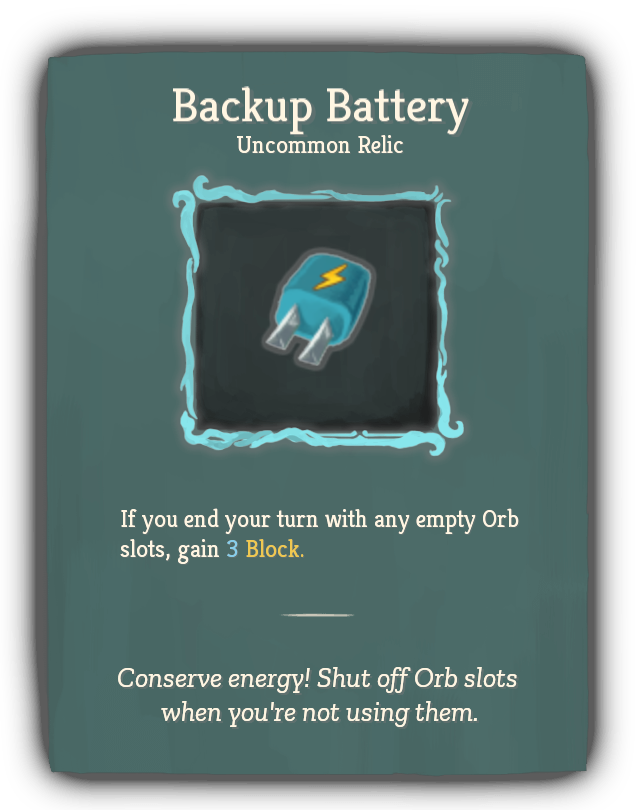
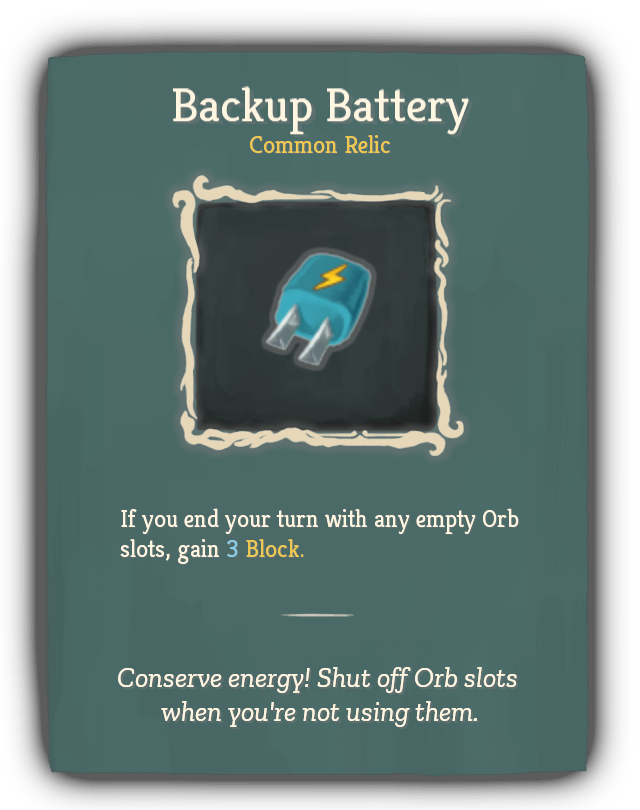
changes

Changed region(s): [[0.25, 0.1543, 0.7188, 0.5864]]

diff --git a/vexMod/index.html b/vexMod/index.html
@@ -959,6 +959,15 @@ Whenever you draw this card, reduce the damage of a random Attack in your hand b
   </tr>
   
   <tr>
+    <td><a href="relics/popup/PowerCharger.png">Backup Battery</a></td>
+    <td><img src="relics/PowerCharger.png" width="128" height="128"><a href="relics/popup/PowerCharger.png"><img src="relics/small-popup/PowerCharger.png" class="popup"></a></td>
+    <td>Common</td>
+    <td>Blue</td>
+    <td>If you end your turn with any empty Orb slots, gain <span class="color-b">3</span> <span class="color-y">Block.</span></td>
+    <td>Conserve energy! Shut off Orb slots when you're not using them.</td>
+  </tr>
+  
+  <tr>
     <td><a href="relics/popup/BarristanHead.png">Bandanna of Resilience</a></td>
     <td><img src="relics/BarristanHead.png" width="128" height="128"><a href="relics/popup/BarristanHead.png"><img src="relics/small-popup/BarristanHead.png" class="popup"></a></td>
     <td>Common</td>
@@ -1137,15 +1146,6 @@ When you die or win, @DBotling tweets about your run.</td>
     <td>Bard_color</td>
     <td>Every time you <span class="color-y">bard:Queue</span> <span class="color-b">3</span> of the same <span class="color-y">bard:Note</span> in a single turn, deal <span class="color-b">5</span> damage to ALL enemies.</td>
     <td>Plays frustrating music.</td>
-  </tr>
-  
-  <tr>
-    <td><a href="relics/popup/PowerCharger.png">Backup Battery</a></td>
-    <td><img src="relics/PowerCharger.png" width="128" height="128"><a href="relics/popup/PowerCharger.png"><img src="relics/small-popup/PowerCharger.png" class="popup"></a></td>
-    <td>Uncommon</td>
-    <td>Blue</td>
-    <td>If you end your turn with any empty Orb slots, gain <span class="color-b">3</span> <span class="color-y">Block.</span></td>
-    <td>Conserve energy! Shut off Orb slots when you're not using them.</td>
   </tr>
   
   <tr>
@@ -1374,15 +1374,6 @@ When you die or win, @DBotling tweets about your run.</td>
   </tr>
   
   <tr>
-    <td><a href="relics/popup/HeavenlyCard.png">Heavenly Card</a></td>
-    <td><img src="relics/HeavenlyCard.png" width="128" height="128"><a href="relics/popup/HeavenlyCard.png"><img src="relics/small-popup/HeavenlyCard.png" class="popup"></a></td>
-    <td>Rare</td>
-    <td>Astrologer</td>
-    <td>Every time you play <span class="color-b">4</span> <span class="color-y">Stars,</span> add a random <span class="color-y">Poker</span> card into your hand. It has <span class="color-y">Ethereal.</span></td>
-    <td>The star card of the show!</td>
-  </tr>
-  
-  <tr>
     <td><a href="relics/popup/ThoughtMold.png">Helpful Mold</a></td>
     <td><img src="relics/ThoughtMold.png" width="128" height="128"><a href="relics/popup/ThoughtMold.png"><img src="relics/small-popup/ThoughtMold.png" class="popup"></a></td>
     <td>Rare</td>
@@ -1398,15 +1389,6 @@ When you die or win, @DBotling tweets about your run.</td>
     <td>Astrologer</td>
     <td>Every time you play <span class="color-b">7</span> <span class="color-y">Stars,</span> perform a random <span class="color-y">bard:Melody.</span></td>
     <td>The song of the stars is yours to echo...</td>
-  </tr>
-  
-  <tr>
-    <td><a href="relics/popup/MusicalCard.png">Musical Card</a></td>
-    <td><img src="relics/MusicalCard.png" width="128" height="128"><a href="relics/popup/MusicalCard.png"><img src="relics/small-popup/MusicalCard.png" class="popup"></a></td>
-    <td>Rare</td>
-    <td>Bard_color</td>
-    <td>Whenever you perform a <span class="color-y">bard:Melody,</span> add a random <span class="color-y">Poker</span> card into your hand. It has <span class="color-y">Ethereal.</span></td>
-    <td>Whistles when thrown.</td>
   </tr>
   
   <tr>
@@ -1882,24 +1864,6 @@ High Score: 0</td>
     <td>Replaces <span style="color:#4169e1ff">Bag</span> <span style="color:#4169e1ff">Pipes</span><span style="color:#4169e1ff">.</span>
 Draw <span class="color-b">2</span> less cards each turn. Whenever you play a card, <span class="color-y">bard:Queue</span> a [WildNote] [REMOVE_SPACE].</td>
     <td>Crafted by an evil god, you shudder to play it.</td>
-  </tr>
-  
-  <tr>
-    <td><a href="relics/popup/MetalNotes.png">Robo-Notes</a></td>
-    <td><img src="relics/MetalNotes.png" width="128" height="128"><a href="relics/popup/MetalNotes.png"><img src="relics/small-popup/MetalNotes.png" class="popup"></a></td>
-    <td>Boss</td>
-    <td>Bard_color</td>
-    <td>Start each combat with <span class="color-b">3</span> Orb slots. Every <span class="color-b">5th</span> <span class="color-y">bard:Note</span> you <span class="color-y">bard:Queue</span> <span class="color-y">Channels</span> an Orb based on its type.</td>
-    <td>BEEEEP BOOOOOOP</td>
-  </tr>
-  
-  <tr>
-    <td><a href="relics/popup/RoboticCards.png">Robotic Cards</a></td>
-    <td><img src="relics/RoboticCards.png" width="128" height="128"><a href="relics/popup/RoboticCards.png"><img src="relics/small-popup/RoboticCards.png" class="popup"></a></td>
-    <td>Boss</td>
-    <td>Poker_player_gray</td>
-    <td>Start each combat with <span class="color-b">3</span> Orb slots. At the start of <span class="color-y">Showdown,</span> <span class="color-y">Channel</span> an Orb depending on the majority <span class="color-g">s</span> [REMOVE_SPACE]#bu [REMOVE_SPACE]#ri [REMOVE_SPACE]#pt in your hand.</td>
-    <td>BEEP BOOP. CALCULATING POKER SKILLS...</td>
   </tr>
   
   <tr>

diff --git a/vexMod/relics.html b/vexMod/relics.html
@@ -18,6 +18,15 @@
   </tr>
   
   <tr>
+    <td><a href="relics/popup/PowerCharger.png">Backup Battery</a></td>
+    <td><img src="relics/PowerCharger.png" width="128" height="128"><a href="relics/popup/PowerCharger.png"><img src="relics/small-popup/PowerCharger.png" class="popup"></a></td>
+    <td>Common</td>
+    <td>Blue</td>
+    <td>If you end your turn with any empty Orb slots, gain <span class="color-b">3</span> <span class="color-y">Block.</span></td>
+    <td>Conserve energy! Shut off Orb slots when you're not using them.</td>
+  </tr>
+  
+  <tr>
     <td><a href="relics/popup/BarristanHead.png">Bandanna of Resilience</a></td>
     <td><img src="relics/BarristanHead.png" width="128" height="128"><a href="relics/popup/BarristanHead.png"><img src="relics/small-popup/BarristanHead.png" class="popup"></a></td>
     <td>Common</td>
@@ -196,15 +205,6 @@ When you die or win, @DBotling tweets about your run.</td>
     <td>Bard_color</td>
     <td>Every time you <span class="color-y">bard:Queue</span> <span class="color-b">3</span> of the same <span class="color-y">bard:Note</span> in a single turn, deal <span class="color-b">5</span> damage to ALL enemies.</td>
     <td>Plays frustrating music.</td>
-  </tr>
-  
-  <tr>
-    <td><a href="relics/popup/PowerCharger.png">Backup Battery</a></td>
-    <td><img src="relics/PowerCharger.png" width="128" height="128"><a href="relics/popup/PowerCharger.png"><img src="relics/small-popup/PowerCharger.png" class="popup"></a></td>
-    <td>Uncommon</td>
-    <td>Blue</td>
-    <td>If you end your turn with any empty Orb slots, gain <span class="color-b">3</span> <span class="color-y">Block.</span></td>
-    <td>Conserve energy! Shut off Orb slots when you're not using them.</td>
   </tr>
   
   <tr>
@@ -433,15 +433,6 @@ When you die or win, @DBotling tweets about your run.</td>
   </tr>
   
   <tr>
-    <td><a href="relics/popup/HeavenlyCard.png">Heavenly Card</a></td>
-    <td><img src="relics/HeavenlyCard.png" width="128" height="128"><a href="relics/popup/HeavenlyCard.png"><img src="relics/small-popup/HeavenlyCard.png" class="popup"></a></td>
-    <td>Rare</td>
-    <td>Astrologer</td>
-    <td>Every time you play <span class="color-b">4</span> <span class="color-y">Stars,</span> add a random <span class="color-y">Poker</span> card into your hand. It has <span class="color-y">Ethereal.</span></td>
-    <td>The star card of the show!</td>
-  </tr>
-  
-  <tr>
     <td><a href="relics/popup/ThoughtMold.png">Helpful Mold</a></td>
     <td><img src="relics/ThoughtMold.png" width="128" height="128"><a href="relics/popup/ThoughtMold.png"><img src="relics/small-popup/ThoughtMold.png" class="popup"></a></td>
     <td>Rare</td>
@@ -457,15 +448,6 @@ When you die or win, @DBotling tweets about your run.</td>
     <td>Astrologer</td>
     <td>Every time you play <span class="color-b">7</span> <span class="color-y">Stars,</span> perform a random <span class="color-y">bard:Melody.</span></td>
     <td>The song of the stars is yours to echo...</td>
-  </tr>
-  
-  <tr>
-    <td><a href="relics/popup/MusicalCard.png">Musical Card</a></td>
-    <td><img src="relics/MusicalCard.png" width="128" height="128"><a href="relics/popup/MusicalCard.png"><img src="relics/small-popup/MusicalCard.png" class="popup"></a></td>
-    <td>Rare</td>
-    <td>Bard_color</td>
-    <td>Whenever you perform a <span class="color-y">bard:Melody,</span> add a random <span class="color-y">Poker</span> card into your hand. It has <span class="color-y">Ethereal.</span></td>
-    <td>Whistles when thrown.</td>
   </tr>
   
   <tr>
@@ -941,24 +923,6 @@ High Score: 0</td>
     <td>Replaces <span style="color:#4169e1ff">Bag</span> <span style="color:#4169e1ff">Pipes</span><span style="color:#4169e1ff">.</span>
 Draw <span class="color-b">2</span> less cards each turn. Whenever you play a card, <span class="color-y">bard:Queue</span> a [WildNote] [REMOVE_SPACE].</td>
     <td>Crafted by an evil god, you shudder to play it.</td>
-  </tr>
-  
-  <tr>
-    <td><a href="relics/popup/MetalNotes.png">Robo-Notes</a></td>
-    <td><img src="relics/MetalNotes.png" width="128" height="128"><a href="relics/popup/MetalNotes.png"><img src="relics/small-popup/MetalNotes.png" class="popup"></a></td>
-    <td>Boss</td>
-    <td>Bard_color</td>
-    <td>Start each combat with <span class="color-b">3</span> Orb slots. Every <span class="color-b">5th</span> <span class="color-y">bard:Note</span> you <span class="color-y">bard:Queue</span> <span class="color-y">Channels</span> an Orb based on its type.</td>
-    <td>BEEEEP BOOOOOOP</td>
-  </tr>
-  
-  <tr>
-    <td><a href="relics/popup/RoboticCards.png">Robotic Cards</a></td>
-    <td><img src="relics/RoboticCards.png" width="128" height="128"><a href="relics/popup/RoboticCards.png"><img src="relics/small-popup/RoboticCards.png" class="popup"></a></td>
-    <td>Boss</td>
-    <td>Poker_player_gray</td>
-    <td>Start each combat with <span class="color-b">3</span> Orb slots. At the start of <span class="color-y">Showdown,</span> <span class="color-y">Channel</span> an Orb depending on the majority <span class="color-g">s</span> [REMOVE_SPACE]#bu [REMOVE_SPACE]#ri [REMOVE_SPACE]#pt in your hand.</td>
-    <td>BEEP BOOP. CALCULATING POKER SKILLS...</td>
   </tr>
   
   <tr>

diff --git a/vexMod/index.md b/vexMod/index.md
@@ -107,6 +107,7 @@
 
 | Image | Name | Rarity | Color | Description | Flavor |
 | ----- | ---- | ------ | ----- | ----------- | ------ |
+| ![](relics/PowerCharger.png) | Backup Battery | Common | Blue | If you end your turn with any empty Orb slots, gain #b3 #yBlock. | Conserve energy! Shut off Orb slots when you're not using them. |
 | ![](relics/BarristanHead.png) | Bandanna of Resilience | Common |  | If you have #b30 or less HP at the start of your turn, gain #b5 #yBlock. | In your strangest dreams, it appears and yells orders at you. |
 | ![](relics/ChargeUpper.png) | Charge Upper | Common | Red | Every time you gain #b30 #yBlock, gain #b1 #yStrength. | "Oops, I fell asleep without plugging it in..." |
 | ![](relics/ColdYogurt.png) | Cold Yogurt | Common | Blue | At the start of each combat, #yChannel #b1 #yFrost. | You wonder if your enemies are lactose-intolerant. |
@@ -127,7 +128,6 @@
 | ![](relics/Spotlight.png) | Spotlight | Common | Astrologer | At the start of each combat, apply #b3 #yStarlit to ALL enemies. | Light 'em up! |
 | ![](relics/StrikeShooter.png) | Strike Shooter | Common | Red | At the start of every third turn, play a πStrike at a random target. | All your sword-firing needs in one medium package! |
 | ![](relics/CleansingRadio.png) | Anger Radio | Uncommon | Bard_color | Every time you #ybard:Queue #b3 of the same #ybard:Note in a single turn, deal #b5 damage to ALL enemies. | Plays frustrating music. |
-| ![](relics/PowerCharger.png) | Backup Battery | Uncommon | Blue | If you end your turn with any empty Orb slots, gain #b3 #yBlock. | Conserve energy! Shut off Orb slots when you're not using them. |
 | ![](relics/BerryBomb.png) | Berry Bomb | Uncommon |  | Upon pickup, raise your Max HP by #b6. In #b8 combats, explodes and deals #b100 damage to ALL enemies. | Tastes explosive! |
 | ![](relics/BetterTron.png) | Better-O-Tron | Uncommon |  | The next #b3 unupgraded cards you add into your deck are #yupgraded. | Mechanical device certain to improve your life somehow! |
 | ![](relics/BottledTune.png) | Bottled Tune | Uncommon | Bard_color | Upon pickup, choose a #ybard:Note. At the start of each combat, #ybard:Queue that #ybard:Note. | You crack the lid and hear a faint sound. |
@@ -153,10 +153,8 @@
 | ![](relics/CoolingFan.png) | Cooling Fan | Rare | Blue | Whenever you #yChannel an Orb, gain #b2 #yBlock. | This fan helps you save cycles when performing monster solution options. |
 | ![](relics/FakeStar.png) | Fake Star | Rare | Astrologer | The first #yStellar card you play each combat will be active. | But if you squint it looks pretty real! |
 | ![](relics/GravityRainbow.png) | Gravitational Rainbow | Rare | Astrologer | At the start of every odd-numbered turn, put the bottom card of your draw pile into your hand. | "But rainbows aren't affected by gravity!" you say. Well, pah! |
-| ![](relics/HeavenlyCard.png) | Heavenly Card | Rare | Astrologer | Every time you play #b4 #yStars, add a random #yPoker card into your hand. It has #yEthereal. | The star card of the show! |
 | ![](relics/ThoughtMold.png) | Helpful Mold | Rare | Red | Whenever you gain #yBlock, gain #b1 #yStrength this turn. | This mold siphons off bits of your shield to feed itself. |
 | ![](relics/MidnightOcarina.png) | Midnight Ocarina | Rare | Astrologer | Every time you play #b7 #yStars, perform a random #ybard:Melody. | The song of the stars is yours to echo... |
-| ![](relics/MusicalCard.png) | Musical Card | Rare | Bard_color | Whenever you perform a #ybard:Melody, add a random #yPoker card into your hand. It has #yEthereal. | Whistles when thrown. |
 | ![](relics/OrbOfGreed.png) | Orb of Greed | Rare | Blue | At the start of each combat, #yChannel #b1 #yGolden #yπLightning. | Mmm, money! |
 | ![](relics/PlasmaPancake.png) | Plasma Pancake | Rare |  | Upon pickup, raise your Max HP by #b6. NL At the start of each combat, deal #b11 damage to ALL enemies. | It's literally on fire. |
 | ![](relics/RedPlottingStone.png) | Red Plotting Stone | Rare |  | #pGlows #psometime. NL #pRight #pclick while glowing for a #gmassive #greward. NL #pRight #pclick while not glowing to #rlose. | Great for nefarious plans - as opposed to the Green Plotting Stone. |
@@ -209,8 +207,6 @@
 | ![](relics/MindDevourer.png) | Mind Devourer | Boss |  | Gain [E] at the start of your turn. At the end of combat, remove a random card from your deck. | Mm, shiny! Wait, what was your name again? |
 | ![](relics/NewClearReactor.png) | New, Clear Reactor | Boss |  | Energy is conserved between turns and combats. You no longer gain Energy each turn. Set your energy to #b100 upon pickup and at the start of each Act. | Totally safe! Good for the environment! Fosters mutations! |
 | ![](relics/MusicMaker.png) | Pipes of Chaos | Boss | Bard_color | Replaces [#4169e1ff]Bag[] [#4169e1ff]Pipes[][#4169e1ff].[] NL Draw #b2 less cards each turn. Whenever you play a card, #ybard:Queue a [WildNote] [REMOVE_SPACE]. | Crafted by an evil god, you shudder to play it. |
-| ![](relics/MetalNotes.png) | Robo-Notes | Boss | Bard_color | Start each combat with #b3 Orb slots. Every #b5th #ybard:Note you #ybard:Queue #yChannels an Orb based on its type. | BEEEEP BOOOOOOP |
-| ![](relics/RoboticCards.png) | Robotic Cards | Boss | Poker_player_gray | Start each combat with #b3 Orb slots. At the start of #yShowdown, #yChannel an Orb depending on the majority #gs [REMOVE_SPACE]#bu [REMOVE_SPACE]#ri [REMOVE_SPACE]#pt in your hand. | BEEP BOOP. CALCULATING POKER SKILLS... |
 | ![](relics/FutureSight.png) | Sight of Future Skies | Boss | Astrologer | Replaces [#c8c8dcff]Sky's[] [#c8c8dcff]Mirror[][#c8c8dcff].[] NL Whenever you play a card, put it on the bottom of your draw pile. | You see it all laid out. One day the sky shall burn away. |
 | ![](relics/StarEater.png) | Star Eater | Boss | Astrologer | Gain [E] at the start of your turn. At the end of your turn, decrease the #yStellar #yPhase by #b2. | One by one, the stars in the sky wink out. |
 | ![](relics/StarPokerPlayer.png) | Star Player Flyer | Boss | Poker_player_gray | Your #gDiamonds increment the #yStellar #yPhase as an additional #yShowdown effect. Your #bSpades apply #b1 #yStarlit to a random enemy as an additional #yShowdown effect. Your #pClubs do both. | A grim memory of your past in the tournaments. |

diff --git a/vexMod/relics.md b/vexMod/relics.md
@@ -1,5 +1,6 @@
 | Image | Name | Rarity | Color | Description | Flavor |
 | ----- | ---- | ------ | ----- | ----------- | ------ |
+| ![](relics/PowerCharger.png) | Backup Battery | Common | Blue | If you end your turn with any empty Orb slots, gain #b3 #yBlock. | Conserve energy! Shut off Orb slots when you're not using them. |
 | ![](relics/BarristanHead.png) | Bandanna of Resilience | Common |  | If you have #b30 or less HP at the start of your turn, gain #b5 #yBlock. | In your strangest dreams, it appears and yells orders at you. |
 | ![](relics/ChargeUpper.png) | Charge Upper | Common | Red | Every time you gain #b30 #yBlock, gain #b1 #yStrength. | "Oops, I fell asleep without plugging it in..." |
 | ![](relics/ColdYogurt.png) | Cold Yogurt | Common | Blue | At the start of each combat, #yChannel #b1 #yFrost. | You wonder if your enemies are lactose-intolerant. |
@@ -20,7 +21,6 @@
 | ![](relics/Spotlight.png) | Spotlight | Common | Astrologer | At the start of each combat, apply #b3 #yStarlit to ALL enemies. | Light 'em up! |
 | ![](relics/StrikeShooter.png) | Strike Shooter | Common | Red | At the start of every third turn, play a πStrike at a random target. | All your sword-firing needs in one medium package! |
 | ![](relics/CleansingRadio.png) | Anger Radio | Uncommon | Bard_color | Every time you #ybard:Queue #b3 of the same #ybard:Note in a single turn, deal #b5 damage to ALL enemies. | Plays frustrating music. |
-| ![](relics/PowerCharger.png) | Backup Battery | Uncommon | Blue | If you end your turn with any empty Orb slots, gain #b3 #yBlock. | Conserve energy! Shut off Orb slots when you're not using them. |
 | ![](relics/BerryBomb.png) | Berry Bomb | Uncommon |  | Upon pickup, raise your Max HP by #b6. In #b8 combats, explodes and deals #b100 damage to ALL enemies. | Tastes explosive! |
 | ![](relics/BetterTron.png) | Better-O-Tron | Uncommon |  | The next #b3 unupgraded cards you add into your deck are #yupgraded. | Mechanical device certain to improve your life somehow! |
 | ![](relics/BottledTune.png) | Bottled Tune | Uncommon | Bard_color | Upon pickup, choose a #ybard:Note. At the start of each combat, #ybard:Queue that #ybard:Note. | You crack the lid and hear a faint sound. |
@@ -46,10 +46,8 @@
 | ![](relics/CoolingFan.png) | Cooling Fan | Rare | Blue | Whenever you #yChannel an Orb, gain #b2 #yBlock. | This fan helps you save cycles when performing monster solution options. |
 | ![](relics/FakeStar.png) | Fake Star | Rare | Astrologer | The first #yStellar card you play each combat will be active. | But if you squint it looks pretty real! |
 | ![](relics/GravityRainbow.png) | Gravitational Rainbow | Rare | Astrologer | At the start of every odd-numbered turn, put the bottom card of your draw pile into your hand. | "But rainbows aren't affected by gravity!" you say. Well, pah! |
-| ![](relics/HeavenlyCard.png) | Heavenly Card | Rare | Astrologer | Every time you play #b4 #yStars, add a random #yPoker card into your hand. It has #yEthereal. | The star card of the show! |
 | ![](relics/ThoughtMold.png) | Helpful Mold | Rare | Red | Whenever you gain #yBlock, gain #b1 #yStrength this turn. | This mold siphons off bits of your shield to feed itself. |
 | ![](relics/MidnightOcarina.png) | Midnight Ocarina | Rare | Astrologer | Every time you play #b7 #yStars, perform a random #ybard:Melody. | The song of the stars is yours to echo... |
-| ![](relics/MusicalCard.png) | Musical Card | Rare | Bard_color | Whenever you perform a #ybard:Melody, add a random #yPoker card into your hand. It has #yEthereal. | Whistles when thrown. |
 | ![](relics/OrbOfGreed.png) | Orb of Greed | Rare | Blue | At the start of each combat, #yChannel #b1 #yGolden #yπLightning. | Mmm, money! |
 | ![](relics/PlasmaPancake.png) | Plasma Pancake | Rare |  | Upon pickup, raise your Max HP by #b6. NL At the start of each combat, deal #b11 damage to ALL enemies. | It's literally on fire. |
 | ![](relics/RedPlottingStone.png) | Red Plotting Stone | Rare |  | #pGlows #psometime. NL #pRight #pclick while glowing for a #gmassive #greward. NL #pRight #pclick while not glowing to #rlose. | Great for nefarious plans - as opposed to the Green Plotting Stone. |
@@ -102,8 +100,6 @@
 | ![](relics/MindDevourer.png) | Mind Devourer | Boss |  | Gain [E] at the start of your turn. At the end of combat, remove a random card from your deck. | Mm, shiny! Wait, what was your name again? |
 | ![](relics/NewClearReactor.png) | New, Clear Reactor | Boss |  | Energy is conserved between turns and combats. You no longer gain Energy each turn. Set your energy to #b100 upon pickup and at the start of each Act. | Totally safe! Good for the environment! Fosters mutations! |
 | ![](relics/MusicMaker.png) | Pipes of Chaos | Boss | Bard_color | Replaces [#4169e1ff]Bag[] [#4169e1ff]Pipes[][#4169e1ff].[] NL Draw #b2 less cards each turn. Whenever you play a card, #ybard:Queue a [WildNote] [REMOVE_SPACE]. | Crafted by an evil god, you shudder to play it. |
-| ![](relics/MetalNotes.png) | Robo-Notes | Boss | Bard_color | Start each combat with #b3 Orb slots. Every #b5th #ybard:Note you #ybard:Queue #yChannels an Orb based on its type. | BEEEEP BOOOOOOP |
-| ![](relics/RoboticCards.png) | Robotic Cards | Boss | Poker_player_gray | Start each combat with #b3 Orb slots. At the start of #yShowdown, #yChannel an Orb depending on the majority #gs [REMOVE_SPACE]#bu [REMOVE_SPACE]#ri [REMOVE_SPACE]#pt in your hand. | BEEP BOOP. CALCULATING POKER SKILLS... |
 | ![](relics/FutureSight.png) | Sight of Future Skies | Boss | Astrologer | Replaces [#c8c8dcff]Sky's[] [#c8c8dcff]Mirror[][#c8c8dcff].[] NL Whenever you play a card, put it on the bottom of your draw pile. | You see it all laid out. One day the sky shall burn away. |
 | ![](relics/StarEater.png) | Star Eater | Boss | Astrologer | Gain [E] at the start of your turn. At the end of your turn, decrease the #yStellar #yPhase by #b2. | One by one, the stars in the sky wink out. |
 | ![](relics/StarPokerPlayer.png) | Star Player Flyer | Boss | Poker_player_gray | Your #gDiamonds increment the #yStellar #yPhase as an additional #yShowdown effect. Your #bSpades apply #b1 #yStarlit to a random enemy as an additional #yShowdown effect. Your #pClubs do both. | A grim memory of your past in the tournaments. |
